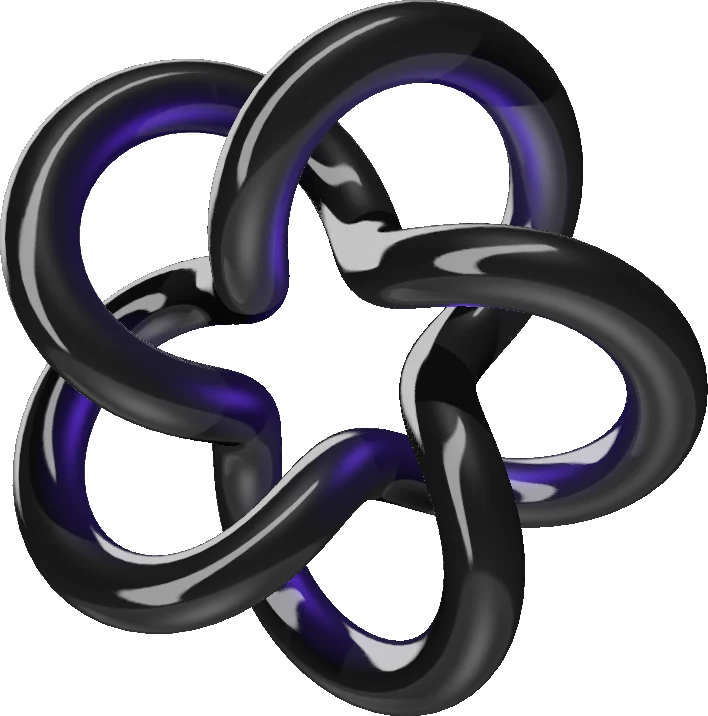
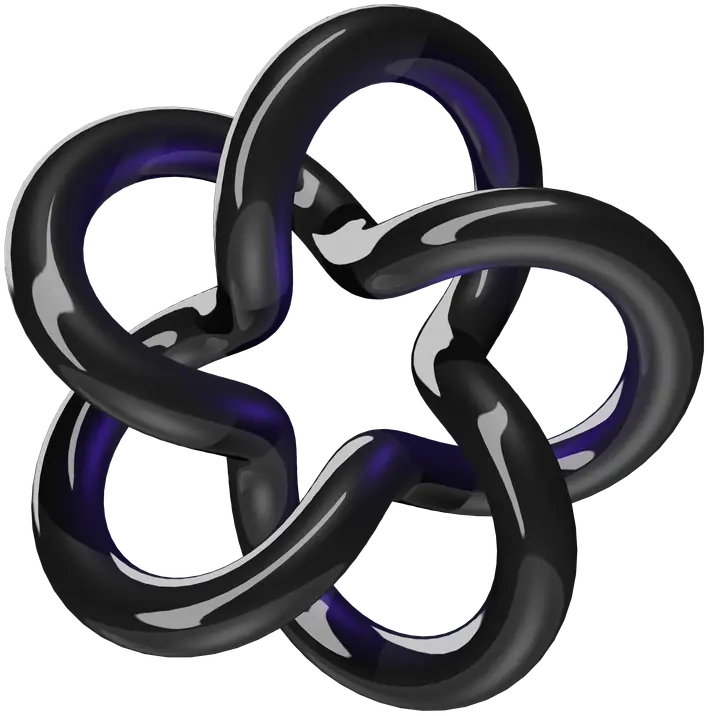
fix(web): hero — poster al violeta vigente, entrada en CSS y ciclo continuo
Tres cosas distintas del hero que comparten archivo.

1. POSTER MOBILE RE-HORNEADO. Abajo de 1024 no hay canvas y el objeto es un webp
   horneado; venia de la luz violeta en 6.5, la vieja. En desktop eso se bajo a 3.0
   el 2026-07-22 porque "azul + violeta juntos son la firma cromatica del render de
   IA generico que la marca evita" — o sea que en mobile se seguia mostrando
   exactamente el violeta que se habia sacado. Horneado de nuevo desde la escena
   viva con el rig exacto del dump de Spline. Control con las dos intensidades y la
   misma pose: el asset viejo reproducia el horneado a 6.5 (7.1% de violeta contra
   7.2%); el nuevo baja el violeta saturado de 2.3% a 0.2%. 29.5 → 39.2KB.

2. ENTRADA above-the-fold EN CSS, no en framer. Dos motivos medidos:
   · El gate en JS no funcionaba. useDesktop() usa useSyncExternalStore con
     getServerSnapshot=false y React usa ESE valor en el render de hidratacion,
     justo cuando framer aplica su `initial`.
   · Aun funcionando, framer no puede animar hasta que hidrata. En mobile eso
     dejaba el subtitulo en opacity:0 dentro del HTML servido, y como es MAS grande
     que el H1 en un telefono (29988 vs 20832 px2 a 390) se quedaba con el LCP.
   Con la media query no hay JS: abajo de lg el contenido viaja visible desde el
   SSR; de lg para arriba la entrada corre en el PRIMER pintado, sin esperar
   hidratacion. Build de produccion, 4G lento, CPU 4x, mediana de 3 corridas:
[…]

diff --git a/projects/syntra-core-website/src/components/sections/hero-section.tsx b/projects/syntra-core-website/src/components/sections/hero-section.tsx
@@ -2,18 +2,19 @@
 
 import * as React from "react";
 import { ArrowRight } from "lucide-react";
-import { motion, useReducedMotion, type Variants } from "framer-motion";
+import { motion, useReducedMotion } from "framer-motion";
 
 import { siteConfig } from "@/config/site";
+import { cn } from "@/lib/utils";
 import { getIcon } from "@/lib/icons";
 import { Badge } from "@/components/ui/badge";
 import { Button } from "@/components/ui/button";
 import { Section } from "@/components/layout/section";
+import { SHELL_ESCENARIO } from "@/components/layout/container";
 import { TrackedLink } from "@/components/shared/tracked-link";
 import { HeroAnillos } from "@/components/marketing/hero/hero-anillos";
 import { HeroCamara, GRAIN } from "@/components/marketing/hero/hero-camara";
 import Image from "next/image";
-import { EASE_PREMIUM, DURATION } from "@/lib/motion";
 
 /**
  * HeroSection — primera impresión y <h1> único (WEB-HERO-RED, ref owner 2026-07-16).
@@ -88,18 +89,19 @@ function HeroSection() {
   const leadWords = hero.titleLead.split(" ").length;
   const highlightWords = hero.titleHighlight.split(" ").length;
 
-  const rise = (i: number): Variants => ({
-    hidden: reduce ? { opacity: 1 } : { opacity: 0, y: 16, filter: "blur(6px)" },
-    show: {
-      opacity: 1,
-      y: 0,
-      filter: "blur(0px)",
-      transition: {
-        duration: reduce ? 0 : DURATION.section,
-        delay: reduce ? 0 : 0.08 + i * 0.09,
-        ease: EASE_PREMIUM,
-      },
-    },
+  /**
+   * Entrada escalonada del bloque above-the-fold. Es CSS (clase `hero-rise` en
+   * globals.css), no framer: la media query decide sin JS y la animación corre
+   * en el primer pintado.
+   *
+   * El subtítulo es MÁS GRANDE que el H1 en un teléfono (29988 vs 20832 px² a
+   * 390px) ⇒ era él quien se quedaba con el LCP, y viajaba en el HTML servido
+   * con opacity:0 esperando a que hidratara framer-motion. Build de producción,
+   * 4G lento, CPU 4x: 4068ms → 1480ms. Desktop conserva su entrada intacta.
+   */
+  const rise = (i: number, className?: string) => ({
+    className: cn("hero-rise", className),
+    style: { "--hero-rise-delay": `${(0.08 + i * 0.09).toFixed(2)}s` } as React.CSSProperties,
   });
 
   return (
@@ -154,18 +156,23 @@ function HeroSection() {
       {/* z-10: el canvas es un elemento POSICIONADO (z-0) y un quad opaco — sin
           contexto propio, el contenido estático se pintaría DEBAJO y el H1
           desaparecería. */}
-      <div className="pointer-events-none relative z-10 mx-auto grid w-full max-w-6xl items-center gap-10 px-6 lg:max-w-7xl lg:grid-cols-[1.05fr_0.95fr] lg:gap-12 lg:px-8 2xl:max-w-[94rem] 2xl:px-12">
+      <div
+        className={cn(
+          SHELL_ESCENARIO,
+          "pointer-events-none relative z-10 grid items-center gap-10 lg:grid-cols-[1.05fr_0.95fr] lg:gap-12",
+        )}
+      >
         {/* Columna izquierda: copy / acción / prueba */}
         <div className="pointer-events-auto flex flex-col items-center gap-7 text-center lg:items-start lg:text-left">
           <div className="flex flex-col items-center gap-5 lg:items-start">
-            <motion.div variants={rise(0)} initial="hidden" animate="show">
+            <div {...rise(0)}>
               <Badge
                 variant="neutral"
                 className="max-w-full text-balance text-center leading-snug whitespace-normal"
               >
                 {hero.badge}
               </Badge>
-            </motion.div>
+            </div>
 
             {/* H1: en mobile/SSR pinta ESTÁTICO (es el LCP); en desktop las
                 palabras entran escalonadas (patrón referencia, fade-up 0.08s). */}
@@ -191,22 +198,19 @@ function HeroSection() {
               </span>
             </h1>
 
-            <motion.p
-              variants={rise(2)}
-              initial="hidden"
-              animate="show"
-              className="max-w-xl text-base leading-relaxed text-foreground/75 text-pretty sm:text-lg"
+            <p
+              {...rise(
+                2,
+                "max-w-xl text-base leading-relaxed text-foreground/75 text-pretty sm:text-lg",
+              )}
             >
               {hero.subtitle}
-            </motion.p>
+            </p>
           </div>
 
           {/* CTAs (hover premium: lift sutil + glow controlado, accesible) */}
-          <motion.div
-            variants={rise(3)}
-            initial="hidden"
-            animate="show"
-            className="flex w-full flex-col items-center gap-3 sm:w-auto sm:flex-row"
+          <div
+            {...rise(3, "flex w-full flex-col items-center gap-3 sm:w-auto sm:flex-row")}
           >
             <Button
               asChild
@@ -235,17 +239,18 @@ function HeroSection() {
                 {cta.secondary}
               </TrackedLink>
             </Button>
-          </motion.div>
+          </div>
 
-          {/* MOBILE: el mismo vórtice, horneado (29KB) — la primera pantalla del
+          {/* MOBILE: el mismo vórtice, horneado (39KB) — la primera pantalla del
               sitio tenía fondo pero no protagonista. Va en el FLUJO (no tapa el
-              H1) y respira con su propio halo. Sin canvas ni JS. */}
-          <motion.div
-            variants={rise(4)}
-            initial="hidden"
-            animate="show"
+              H1) y respira con su propio halo. Sin canvas ni JS.
+              2026-07-22: re-horneado con el violeta en 3.0 (la dosis vigente en
+              desktop). El asset anterior venía de la luz a 6.5 y mostraba en
+              mobile justo el violeta que se había sacado del 3D — 2.3% de
+              píxeles violeta saturado contra 0.2% ahora. */}
+          <div
             aria-hidden="true"
-            className="relative -my-2 w-[78%] max-w-[19rem] lg:hidden"
+            {...rise(4, "relative -my-2 w-[78%] max-w-[19rem] lg:hidden")}
           >
             <div
               className="absolute inset-0 -m-6 rounded-full"
@@ -260,21 +265,24 @@ function HeroSection() {
               width={708}
               height={716}
               priority
-              sizes="(max-width: 1023px) 78vw, 0px"
+              // El elemento está topeado a max-w-[19rem]: arriba de ~440px de
+              // viewport mide 304px fijos, no 78vw. Con el 78vw suelto el
+              // browser pedía la variante w=1920 en tablet para pintar 304px.
+              sizes="(max-width: 440px) 78vw, 304px"
               className="relative h-auto w-full"
             />
-          </motion.div>
+          </div>
 
           {/* Placa de vidrio (capability rail v2): UN objeto monolítico — un estrato
               extraído del edificio del asset. Segmentos separados por costuras de luz
               (no cajas), canto superior iluminado, sheen especular lento (mismo
               lenguaje que el light sweep del asset) y cola de fusión hacia el
               edificio en lg. Solo transform/opacity → CLS 0, LCP intacto. */}
-          <motion.div
-            variants={rise(4)}
-            initial="hidden"
-            animate="show"
-            className="relative w-full max-w-md lg:max-w-xl"
+          {/* md:max-w-2xl: en tablet la placa quedaba a 448px debajo de un H1
+              y un subtítulo de 720px — un bloque centrado suelto. A 672px
+              acompaña el ancho de la columna de texto. */}
+          <div
+            {...rise(4, "relative w-full max-w-md md:max-w-2xl lg:max-w-xl")}
           >
             <div
               className="relative overflow-hidden rounded-2xl border border-white/[0.08] bg-gradient-to-b from-white/[0.07] via-white/[0.04] to-white/[0.02] shadow-[0_24px_60px_-28px_rgba(0,0,0,0.75)] backdrop-blur-md"
@@ -313,7 +321,7 @@ function HeroSection() {
                 })}
               </div>
             </div>
-          </motion.div>
+          </div>
         </div>
 
         {/* Columna derecha: vacía a propósito — la esfera-red 3D del fondo vive en

diff --git a/projects/syntra-core-website/src/app/globals.css b/projects/syntra-core-website/src/app/globals.css
@@ -234,6 +234,43 @@
   @keyframes hero-object-in {
     to { opacity: 1; }
   }
+
+  /* === Entrada escalonada del bloque above-the-fold del hero ===
+     En CSS y NO en framer-motion, por dos motivos medidos (auditoría 2026-07-22):
+
+     1. El gate en JS no funcionaba. `useDesktop()` usa useSyncExternalStore con
+        getServerSnapshot = false, y en la hidratación React usa ESE valor para el
+        primer render — justo cuando framer aplica su `initial`. Resultado: en
+        desktop la variante nunca se armaba con el valor real. (El H1 arrastra el
+        mismo síntoma con su propio gate.)
+     2. Aun funcionando, framer no puede animar hasta que hidrata. En mobile eso
+        dejaba el subtítulo en opacity:0 dentro del HTML servido, y como es MÁS
+        grande que el H1 en un teléfono, se quedaba con el LCP: 4068ms contra
+        1480ms una vez estático (build de producción, 4G lento, CPU 4x).
+
+     Con la media query el reparto es exacto y sin JS: abajo de lg no hay regla
+     ⇒ el contenido viaja visible desde el SSR; de lg para arriba la entrada
+     corre en el PRIMER pintado, sin esperar hidratación. El retardo de cada
+     elemento entra por --hero-rise-delay. */
+  @keyframes hero-rise {
+    from {
+      opacity: 0;
+      transform: translateY(16px);
+      filter: blur(6px);
+    }
+    to {
+      opacity: 1;
+      transform: none;
+      filter: none;
+    }
+  }
+  @media (min-width: 64rem) and (prefers-reduced-motion: no-preference) {
+    .hero-rise {
+      opacity: 0;
+      animation: hero-rise 0.6s cubic-bezier(0.22, 1, 0.36, 1)
+        var(--hero-rise-delay, 0s) both;
+    }
+  }
   @keyframes syntra-pulse {
     0%, 100% { transform: scale(1); }
     50% { transform: scale(1.03); }

diff --git a/projects/syntra-core-website/src/components/marketing/hero/hero-liquido.tsx b/projects/syntra-core-website/src/components/marketing/hero/hero-liquido.tsx
@@ -94,16 +94,27 @@ const FRAG = /* glsl */ `
 
   const float TAU = 6.28318530718;
 
+  /* Hash de Dave Hoskins. El anterior (fract(p.x*p.y*p.z*(p.x+p.y+p.z)) con p
+     escalado ×17) armaba productos de hasta 2.1e5 ANTES del fract, y la GPU
+     trabaja en float32: a esa magnitud la mantisa ya no alcanza y el resultado
+     se cuantiza. Medido contra float64: error medio 0.0169 acá contra 0.0009
+     con este hash — 18× peor. Y esa pérdida no es ruido, está CORRELACIONADA
+     con la posición ⇒ se manifiesta como escalones de borde recto, que el
+     cizallamiento local del puntero arrastra por la pantalla. Este hash
+     mantiene todas las magnitudes por debajo de 1.8e4. */
   float hash31(vec3 p) {
-    p = fract(p * 0.3183099 + vec3(0.1, 0.2, 0.3));
-    p *= 17.0;
-    return fract(p.x * p.y * p.z * (p.x + p.y + p.z));
+    p = fract(p * 0.1031);
+    p += dot(p, p.zyx + 31.32);
+    return fract((p.x + p.y) * p.z);
   }
 
   /* Value noise 3D — la 3ª dimensión es el tiempo ⇒ evolución sin loop. */
   float n3(vec3 x) {
     vec3 i = floor(x), f = fract(x);
-    f = f * f * (3.0 - 2.0 * f);
+    /* Quíntica (Perlin) en vez de la cúbica clásica: la cúbica deja la SEGUNDA
+       derivada rota en los bordes de celda, y bajo el cizallamiento del puntero
+       esos bordes se leen como pliegues rectos. Cuesta dos multiplicaciones. */
+    f = f * f * f * (f * (f * 6.0 - 15.0) + 10.0);
     return mix(
       mix(mix(hash31(i), hash31(i + vec3(1,0,0)), f.x),
           mix(hash31(i + vec3(0,1,0)), hash31(i + vec3(1,1,0)), f.x), f.y),
@@ -333,6 +344,15 @@ function HeroLiquido({
   const lag = React.useRef(new THREE.Vector2(0, 0));
   const prev = React.useRef(new THREE.Vector2(0, 0));
   const vel = React.useRef(new THREE.Vector2(0, 0));
+  /* Tiempo PROPIO, acumulado con delta acotado — no `clock.elapsedTime`.
+     El canvas corre con frameloop={inView ? "always" : "demand"}, así que el
+     render se pausa al salir del viewport; y el navegador también congela el
+     rAF con la pestaña en segundo plano. En los dos casos el reloj de three
+     sigue midiendo tiempo REAL, así que al volver elapsedTime pega un salto de
+     todo lo que estuvo pausado y el fondo TELEPORTA. Medido: 3s fuera de
+     viewport ⇒ un salto 34× mayor que el avance normal de medio segundo. Con
+     el delta acotado a 50ms el ciclo es continuo pase lo que pase. */
+  const tRef = React.useRef(0);
 
   /* Los uniforms se construyen UNA vez con neutros y NUNCA se mutan desde acá: el
      React Compiler prohíbe modificar un valor memoizado. Todo (props incluidas) se
@@ -369,11 +389,12 @@ function HeroLiquido({
     [],
   );
 
-  useFrame((state, delta) => {
+  useFrame((_state, delta) => {
     const m = matRef.current;
     if (!m) return;
     const u = m.uniforms;
-    u.uTime.value = state.clock.elapsedTime;
+    tRef.current += Math.min(delta, 0.05);
+    u.uTime.value = tRef.current;
     u.uSpeed.value = speed;
     u.uScale.value = scale;
     u.uIntensity.value = intensity;